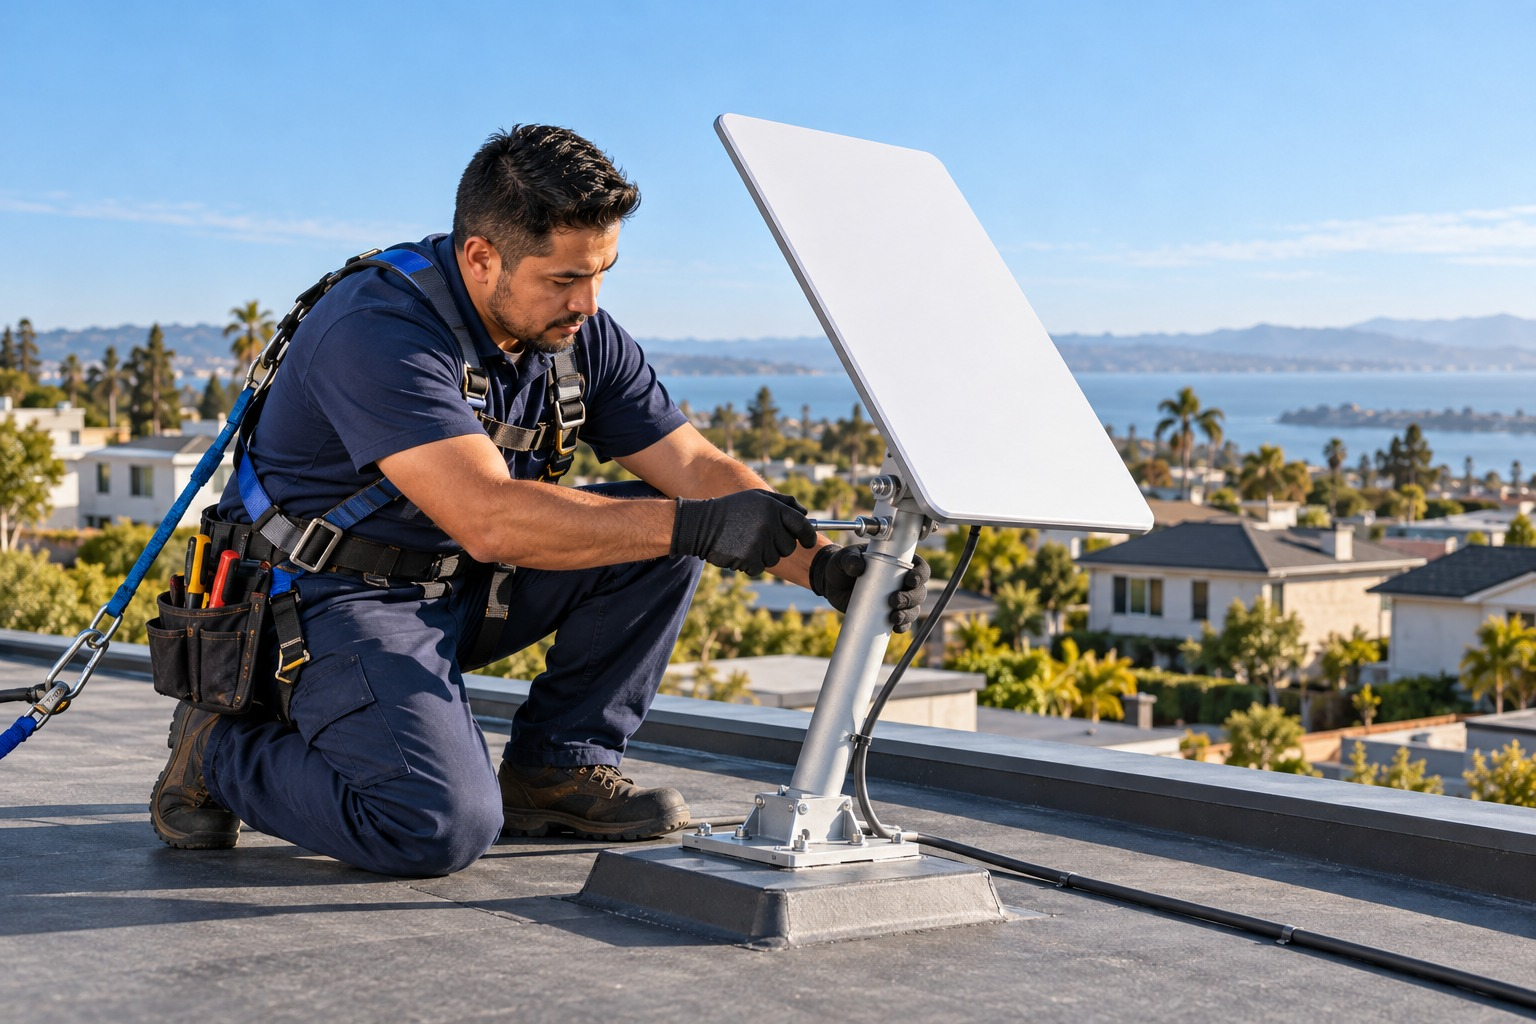
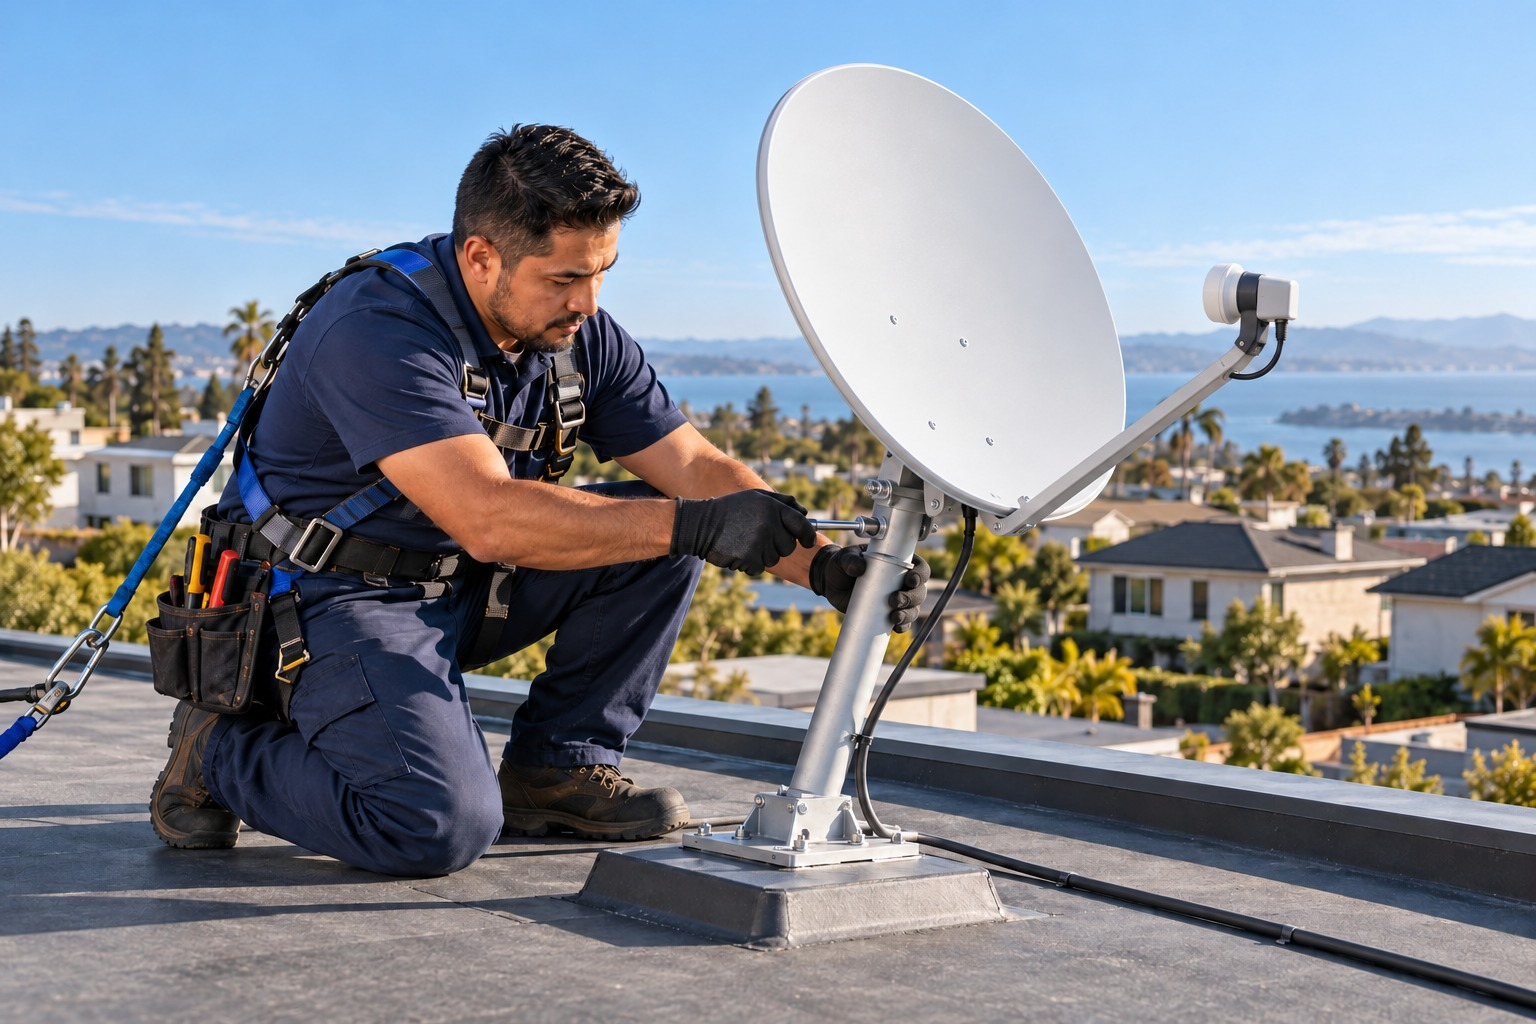
Footer en 3 columnas en móvil, sin «técnico gratis» y botón con degradado
- Pie de página: Servicios, Ayuda y Enlaces legales en una fila en móvil
- Se quita la insignia de $0 y las menciones a «gratis» en la sección del técnico
- «Técnico gratis» pasa a «Técnico a domicilio» en menú y pie de página
- Botón «Llama ahora» con degradado amarillo-coral y forma de píldora
- Nueva foto del técnico

diff --git a/css/styles.css b/css/styles.css
@@ -7,6 +7,7 @@
   --muted: #84829A;
   --orange: #DF6951;
   --yellow: #F1A501;
+  --grad-cta: linear-gradient(120deg, #FFB534 0%, #F7894A 55%, #EC6A5A 100%);
   --teal: #006380;
   --peach: #FFF1DA;
   --hero-bg: #fdfcf7;   /* el fondo crema de img/hero-viajero.webp */
@@ -58,7 +59,10 @@ ul, ol { list-style: none; }
 }
 @media (hover: hover) { .btn:hover { transform: translateY(-2px); } }
 .btn:active { transform: scale(.98); }
-.btn--yellow { background: var(--yellow); color: #fff; box-shadow: 0 20px 35px rgba(241,165,1,.15); }
+.btn--yellow {
+  background: var(--grad-cta); color: #fff; font-weight: 600; text-shadow: 0 1px 2px rgba(160,60,20,.25);
+  box-shadow: 0 14px 28px rgba(236,106,90,.28), inset 0 1px 0 rgba(255,255,255,.35);
+}
 .btn--orange { background: var(--orange); color: #fff; box-shadow: 0 15px 30px rgba(223,105,81,.25); }
 .btn--outline { border: 1px solid var(--navy); color: var(--navy); padding: 8px 20px; border-radius: 6px; }
 .btn--outline:hover { background: var(--navy); color: #fff; }
@@ -184,19 +188,13 @@ ul, ol { list-style: none; }
 .plan__btn { margin-top: auto; padding: 14px 20px; border-radius: 10px; gap: 8px; }
 .plans__nota { margin-top: 32px; text-align: center; font-size: .95rem; }
 
-/* ---------- Técnico gratis ---------- */
+/* ---------- Técnico a domicilio ---------- */
 .tech__inner { display: grid; grid-template-columns: 1.1fr 1fr; gap: 64px; align-items: center; }
 .tech__media { position: relative; }
 .tech__media img {
   width: 100%; height: auto; aspect-ratio: 3 / 2; object-fit: cover; object-position: 35% center;
   border-radius: 28px; background: var(--peach); box-shadow: 0 30px 60px rgba(24,30,75,.14);
 }
-.tech__badge {
-  position: absolute; right: -18px; bottom: -22px; display: flex; align-items: center; gap: 12px;
-  padding: 14px 20px; background: #fff; border-radius: 18px; box-shadow: var(--shadow);
-  font-size: .85rem; line-height: 1.25; color: var(--text); font-weight: 500;
-}
-.tech__badge strong { font-family: var(--ff-head); font-size: 2.2rem; line-height: 1; color: var(--orange); }
 .tech__text { margin: 18px 0 22px; font-size: 1.02rem; line-height: 1.8; }
 .tech__list { display: grid; gap: 12px; margin-bottom: 30px; }
 .tech__list li { display: flex; gap: 12px; align-items: flex-start; color: var(--navy); font-weight: 500; }
@@ -424,7 +422,7 @@ ul, ol { list-style: none; }
   .hero__actions .btn--big {
     position: fixed; z-index: 40; left: 16px; right: 16px; margin-inline: auto;
     bottom: calc(14px + env(safe-area-inset-bottom)); width: auto; max-width: 420px;
-    box-shadow: 0 14px 30px rgba(241,165,1,.45);
+    border-radius: 999px; box-shadow: 0 12px 26px rgba(236,106,90,.35), inset 0 1px 0 rgba(255,255,255,.35);
   }
   .hero__actions { margin-top: 18px; }
   .hero { z-index: 40; } /* el hero aísla su capa: así el botón fijo queda sobre el resto de secciones */
@@ -460,12 +458,10 @@ ul, ol { list-style: none; }
   .step__arrow { margin-right: 4px; }
   .step p { font-size: .8rem; }
 
-  /* Técnico gratis: foto arriba, texto debajo */
+  /* Técnico a domicilio: foto arriba, texto debajo */
   .tech__inner { grid-template-columns: 1fr; gap: 40px; }
   .tech__inner > * { min-width: 0; }
   .tech__media img { border-radius: 22px; }
-  .tech__badge { right: 12px; bottom: -20px; padding: 10px 16px; }
-  .tech__badge strong { font-size: 1.8rem; }
   .tech__text { font-size: .98rem; margin: 12px 0 18px; }
   .tech__cta { width: 100%; }
 
@@ -517,7 +513,7 @@ ul, ol { list-style: none; }
 .footer__marcas { max-width: 680px; margin: 6px auto 0; font-size: .74rem; line-height: 1.6; color: #7d8090; }
 .footer__call {
   display: flex; align-items: center; justify-content: center; gap: 12px; margin-top: 28px;
-  padding: 16px 20px; border-radius: 12px; background: var(--yellow); color: #14151c;
+  padding: 16px 20px; border-radius: 999px; background: var(--grad-cta); color: #fff;
   font-weight: 600; font-size: 1.05rem; transition: filter .2s;
 }
 .footer__call:hover { filter: brightness(1.06); }
@@ -529,15 +525,18 @@ ul, ol { list-style: none; }
 }
 @media (max-width: 860px) {
   .footer { padding: 44px 0 calc(100px + env(safe-area-inset-bottom)); }
-  .footer__grid { grid-template-columns: 1fr 1fr; gap: 28px 20px; }
-  .footer__contacto, .footer__grid > :nth-child(4) { grid-column: 1 / -1; }
-  .footer li a { padding: 7px 0; }
+  /* Móvil: Servicios · Ayuda · Legales en una fila de 3 columnas; texto y contacto a todo el ancho */
+  .footer__grid { grid-template-columns: repeat(3, minmax(0, 1fr)); gap: 32px 16px; }
+  .footer__brand, .footer__contacto { grid-column: 1 / -1; }
+  .footer h4 { font-size: .7rem; letter-spacing: .08em; margin-bottom: 12px; }
+  .footer li { margin-bottom: 2px; }
+  .footer li a { display: block; padding: 6px 0; font-size: .82rem; line-height: 1.35; }
   .footer__bottom { margin-top: 32px; }
   /* En la portada ya está fijo el botón amarillo del hero; en las demás páginas la barra se fija abajo */
   body:not(.pagina-legal) .footer__call { display: none; }
   .pagina-legal .footer__call {
     position: fixed; z-index: 40; left: 16px; right: 16px; bottom: calc(14px + env(safe-area-inset-bottom));
-    margin: 0 auto; max-width: 420px; box-shadow: 0 14px 30px rgba(241,165,1,.45);
+    margin: 0 auto; max-width: 420px; box-shadow: 0 12px 26px rgba(236,106,90,.35);
     gap: 8px; padding: 16px 12px; font-size: clamp(.86rem, 4vw, 1rem); white-space: nowrap;
   }
 }

diff --git a/index.html b/index.html
@@ -10,7 +10,7 @@
   <meta property="og:type" content="website">
   <meta property="og:site_name" content="Mi Conexión Rápida">
   <meta property="og:title" content="Internet rápido para tu hogar, sin pausas">
-  <meta property="og:description" content="Te asesoramos en español y un técnico va a tu casa gratis. Llámanos: (239) 341-9024.">
+  <meta property="og:description" content="Te asesoramos en español y un técnico va a tu casa. Llámanos: (239) 341-9024.">
   <meta property="og:url" content="https://miconexionrapida.com/">
   <meta property="og:image" content="https://miconexionrapida.com/img/hero-viajero.webp">
   <link rel="icon" href="img/favicon.svg" type="image/svg+xml">
@@ -30,7 +30,7 @@
       <nav class="nav" id="nav" aria-label="Principal">
         <ul class="nav__list">
           <li><a href="#planes">Planes</a></li>
-          <li><a href="#tecnico">Técnico gratis</a></li>
+          <li><a href="#tecnico">Técnico a domicilio</a></li>
           <li><a href="#beneficios">Beneficios</a></li>
           <li><a href="#contratar">Cómo contratar</a></li>
           <li><a href="tel:+12393419024" class="btn btn--orange btn--call" data-tel>
@@ -154,37 +154,33 @@
       </div>
     </section>
 
-    <!-- ============ TÉCNICO GRATIS ============ -->
+    <!-- ============ TÉCNICO A DOMICILIO ============ -->
     <!-- Foto: img/tecnico.jpeg -->
     <section class="section tech" id="tecnico">
       <div class="container tech__inner">
         <div class="tech__media reveal">
           <img src="img/tecnico.jpeg" width="1536" height="1024" loading="lazy"
                alt="Técnico instalando la antena de internet en el techo de una casa">
-          <div class="tech__badge">
-            <strong>$0</strong>
-            <span>visita del<br>técnico</span>
-          </div>
         </div>
 
         <div class="tech__content reveal">
           <p class="eyebrow eyebrow--left">Instalación profesional</p>
-          <h2 class="section__title section__title--left">Un técnico va a tu casa, gratis</h2>
+          <h2 class="section__title section__title--left">Un técnico va a tu casa</h2>
           <p class="tech__text">
             No tienes que instalar nada tú solo. Un técnico certificado llega el día que elijas,
             deja tu internet funcionando y te explica todo en español.
           </p>
           <ul class="tech__list">
-            <li><svg viewBox="0 0 24 24" aria-hidden="true"><use href="#i-check"/></svg>Instalación estándar sin costo</li>
+            <li><svg viewBox="0 0 24 24" aria-hidden="true"><use href="#i-check"/></svg>Instalación profesional del equipo</li>
             <li><svg viewBox="0 0 24 24" aria-hidden="true"><use href="#i-check"/></svg>Revisa la señal en cada cuarto</li>
             <li><svg viewBox="0 0 24 24" aria-hidden="true"><use href="#i-check"/></svg>Conecta tus equipos: TV, celulares y computadoras</li>
             <li><svg viewBox="0 0 24 24" aria-hidden="true"><use href="#i-check"/></svg>Tú eliges el día y la hora</li>
           </ul>
           <a href="tel:+12393419024" class="btn btn--orange btn--big tech__cta" data-tel>
             <svg viewBox="0 0 24 24" aria-hidden="true"><use href="#i-phone"/></svg>
-            Agenda tu técnico gratis
+            Agenda tu técnico
           </a>
-          <p class="tech__nota">*Aplica a instalación estándar. Sujeto a disponibilidad en tu zona.</p>
+          <p class="tech__nota">*Sujeto a disponibilidad en tu zona.</p>
         </div>
       </div>
     </section>
@@ -292,7 +288,7 @@
         <h4>Servicios</h4>
         <ul>
           <li><a href="#planes">Planes de internet</a></li>
-          <li><a href="#tecnico">Técnico gratis</a></li>
+          <li><a href="#tecnico">Técnico a domicilio</a></li>
           <li><a href="#beneficios">Beneficios</a></li>
           <li><a href="#contratar">Cómo contratar</a></li>
         </ul>

diff --git a/cancelacion.html b/cancelacion.html
@@ -101,7 +101,7 @@
         <h4>Servicios</h4>
         <ul>
           <li><a href="index.html#planes">Planes de internet</a></li>
-          <li><a href="index.html#tecnico">Técnico gratis</a></li>
+          <li><a href="index.html#tecnico">Técnico a domicilio</a></li>
           <li><a href="index.html#beneficios">Beneficios</a></li>
           <li><a href="index.html#contratar">Cómo contratar</a></li>
         </ul>

diff --git a/privacidad.html b/privacidad.html
@@ -123,7 +123,7 @@
         <h4>Servicios</h4>
         <ul>
           <li><a href="index.html#planes">Planes de internet</a></li>
-          <li><a href="index.html#tecnico">Técnico gratis</a></li>
+          <li><a href="index.html#tecnico">Técnico a domicilio</a></li>
           <li><a href="index.html#beneficios">Beneficios</a></li>
           <li><a href="index.html#contratar">Cómo contratar</a></li>
         </ul>

diff --git a/terminos.html b/terminos.html
@@ -129,7 +129,7 @@
         <h4>Servicios</h4>
         <ul>
           <li><a href="index.html#planes">Planes de internet</a></li>
-          <li><a href="index.html#tecnico">Técnico gratis</a></li>
+          <li><a href="index.html#tecnico">Técnico a domicilio</a></li>
           <li><a href="index.html#beneficios">Beneficios</a></li>
           <li><a href="index.html#contratar">Cómo contratar</a></li>
         </ul>

diff --git a/ayuda.html b/ayuda.html
@@ -97,7 +97,7 @@
         <h4>Servicios</h4>
         <ul>
           <li><a href="index.html#planes">Planes de internet</a></li>
-          <li><a href="index.html#tecnico">Técnico gratis</a></li>
+          <li><a href="index.html#tecnico">Técnico a domicilio</a></li>
           <li><a href="index.html#beneficios">Beneficios</a></li>
           <li><a href="index.html#contratar">Cómo contratar</a></li>
         </ul>
